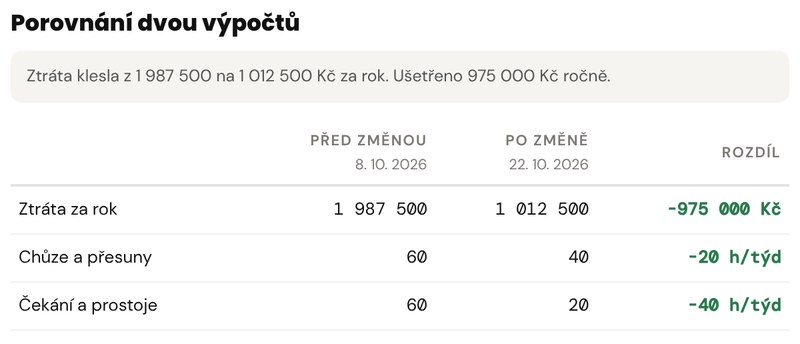
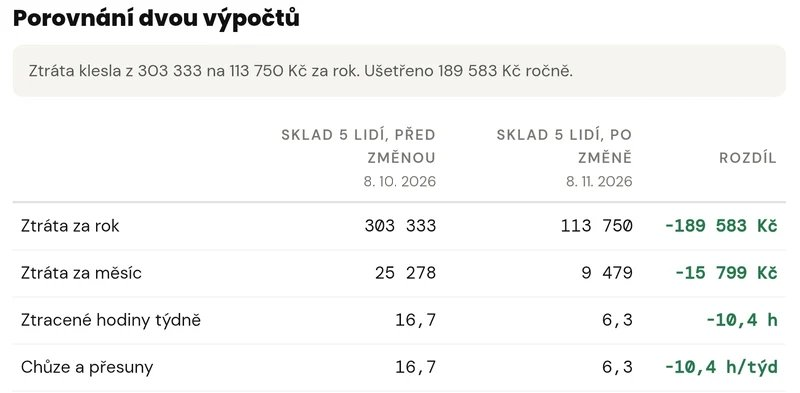
Obrázek porovnání před/po: skutečný screenshot z appky se správnými čísly (303 333 -> 113 750 Kč)
Co to dělá:
- nahrazen obrázek krok-4 (úvodní stránka i /pro/) skutečným snímkem z appky
  s ukázkovými daty skladu s 5 lidmi, stejný obrázek i na stránce Pilotu
- alt texty a rozměry (393 místo 344) sladěné s novým obrázkem

diff --git a/pro/index.html b/pro/index.html
@@ -605,7 +605,7 @@ details.faq-item > p{padding:0 20px 16px;margin:0;}
     </div>
     <div class="ukazka-radek">
       <div class="ukazka-text"><h3>Tokva porovná dvě měření a přehledně ukáže, co se změnilo.</h3><p>Hned uvidíte, jestli vaše opatření pomohlo.</p></div>
-      <figure class="ukazka-obr"><picture><source srcset="../obrazky/krok-4.webp" type="image/webp"><img data-velky="../obrazky/krok-4.jpg" src="../obrazky/krok-4.jpg" width="800" height="344" alt="Porovnání dvou výpočtů: ztráta klesla z 1 987 500 na 1 012 500 Kč za rok" loading="lazy"></picture></figure>
+      <figure class="ukazka-obr"><picture><source srcset="../obrazky/krok-4.webp" type="image/webp"><img data-velky="../obrazky/krok-4.jpg" src="../obrazky/krok-4.jpg" width="800" height="393" alt="Porovnání dvou výpočtů: ztráta skladu s 5 lidmi klesla z 303 333 na 113 750 Kč za rok" loading="lazy"></picture></figure>
     </div>
     <p class="screenshoty-pozn">Obrázky jsou z appky Tokva s ukázkovými daty.</p>
     <dialog id="obr-okno" onclick="if(event.target===this)this.close()"><button type="button" class="obr-zavrit" aria-label="Zavřít" onclick="this.closest('dialog').close()">×</button><div class="obr-posun"><img src="" alt=""></div></dialog>

diff --git a/index.html b/index.html
@@ -540,7 +540,7 @@ html.pohyb .krok-karta.je-tu img{transform:scale(1);}
         <div class="krok-text"><span class="step-num">03</span><h3>Tokva pomůže najít příčinu a další krok</h3><p>Otázkami vás dovede k pravděpodobné příčině problému a pomůže určit, co změnit jako první.</p></div>
       </div>
       <div class="krok-karta odhal" style="--poradi:3">
-        <picture><source srcset="obrazky/krok-4.webp" type="image/webp"><img src="obrazky/krok-4.jpg" width="800" height="344" alt="Tokva Pro: porovnání dvou výpočtů, ztráta klesla o 975 000 Kč ročně" loading="lazy"></picture>
+        <picture><source srcset="obrazky/krok-4.webp" type="image/webp"><img src="obrazky/krok-4.jpg" width="800" height="393" alt="Tokva Pro: porovnání dvou výpočtů, ztráta skladu s 5 lidmi klesla z 303 333 na 113 750 Kč ročně" loading="lazy"></picture>
         <div class="krok-text"><span class="step-num">04 <span class="krok-pro">Tokva Pro</span></span><h3>Tokva porovná stav před změnou a po&nbsp;ní</h3><p>Ukáže, jestli se provoz opravdu zlepšil a kde má smysl pokračovat.</p></div>
       </div>
     </div>
